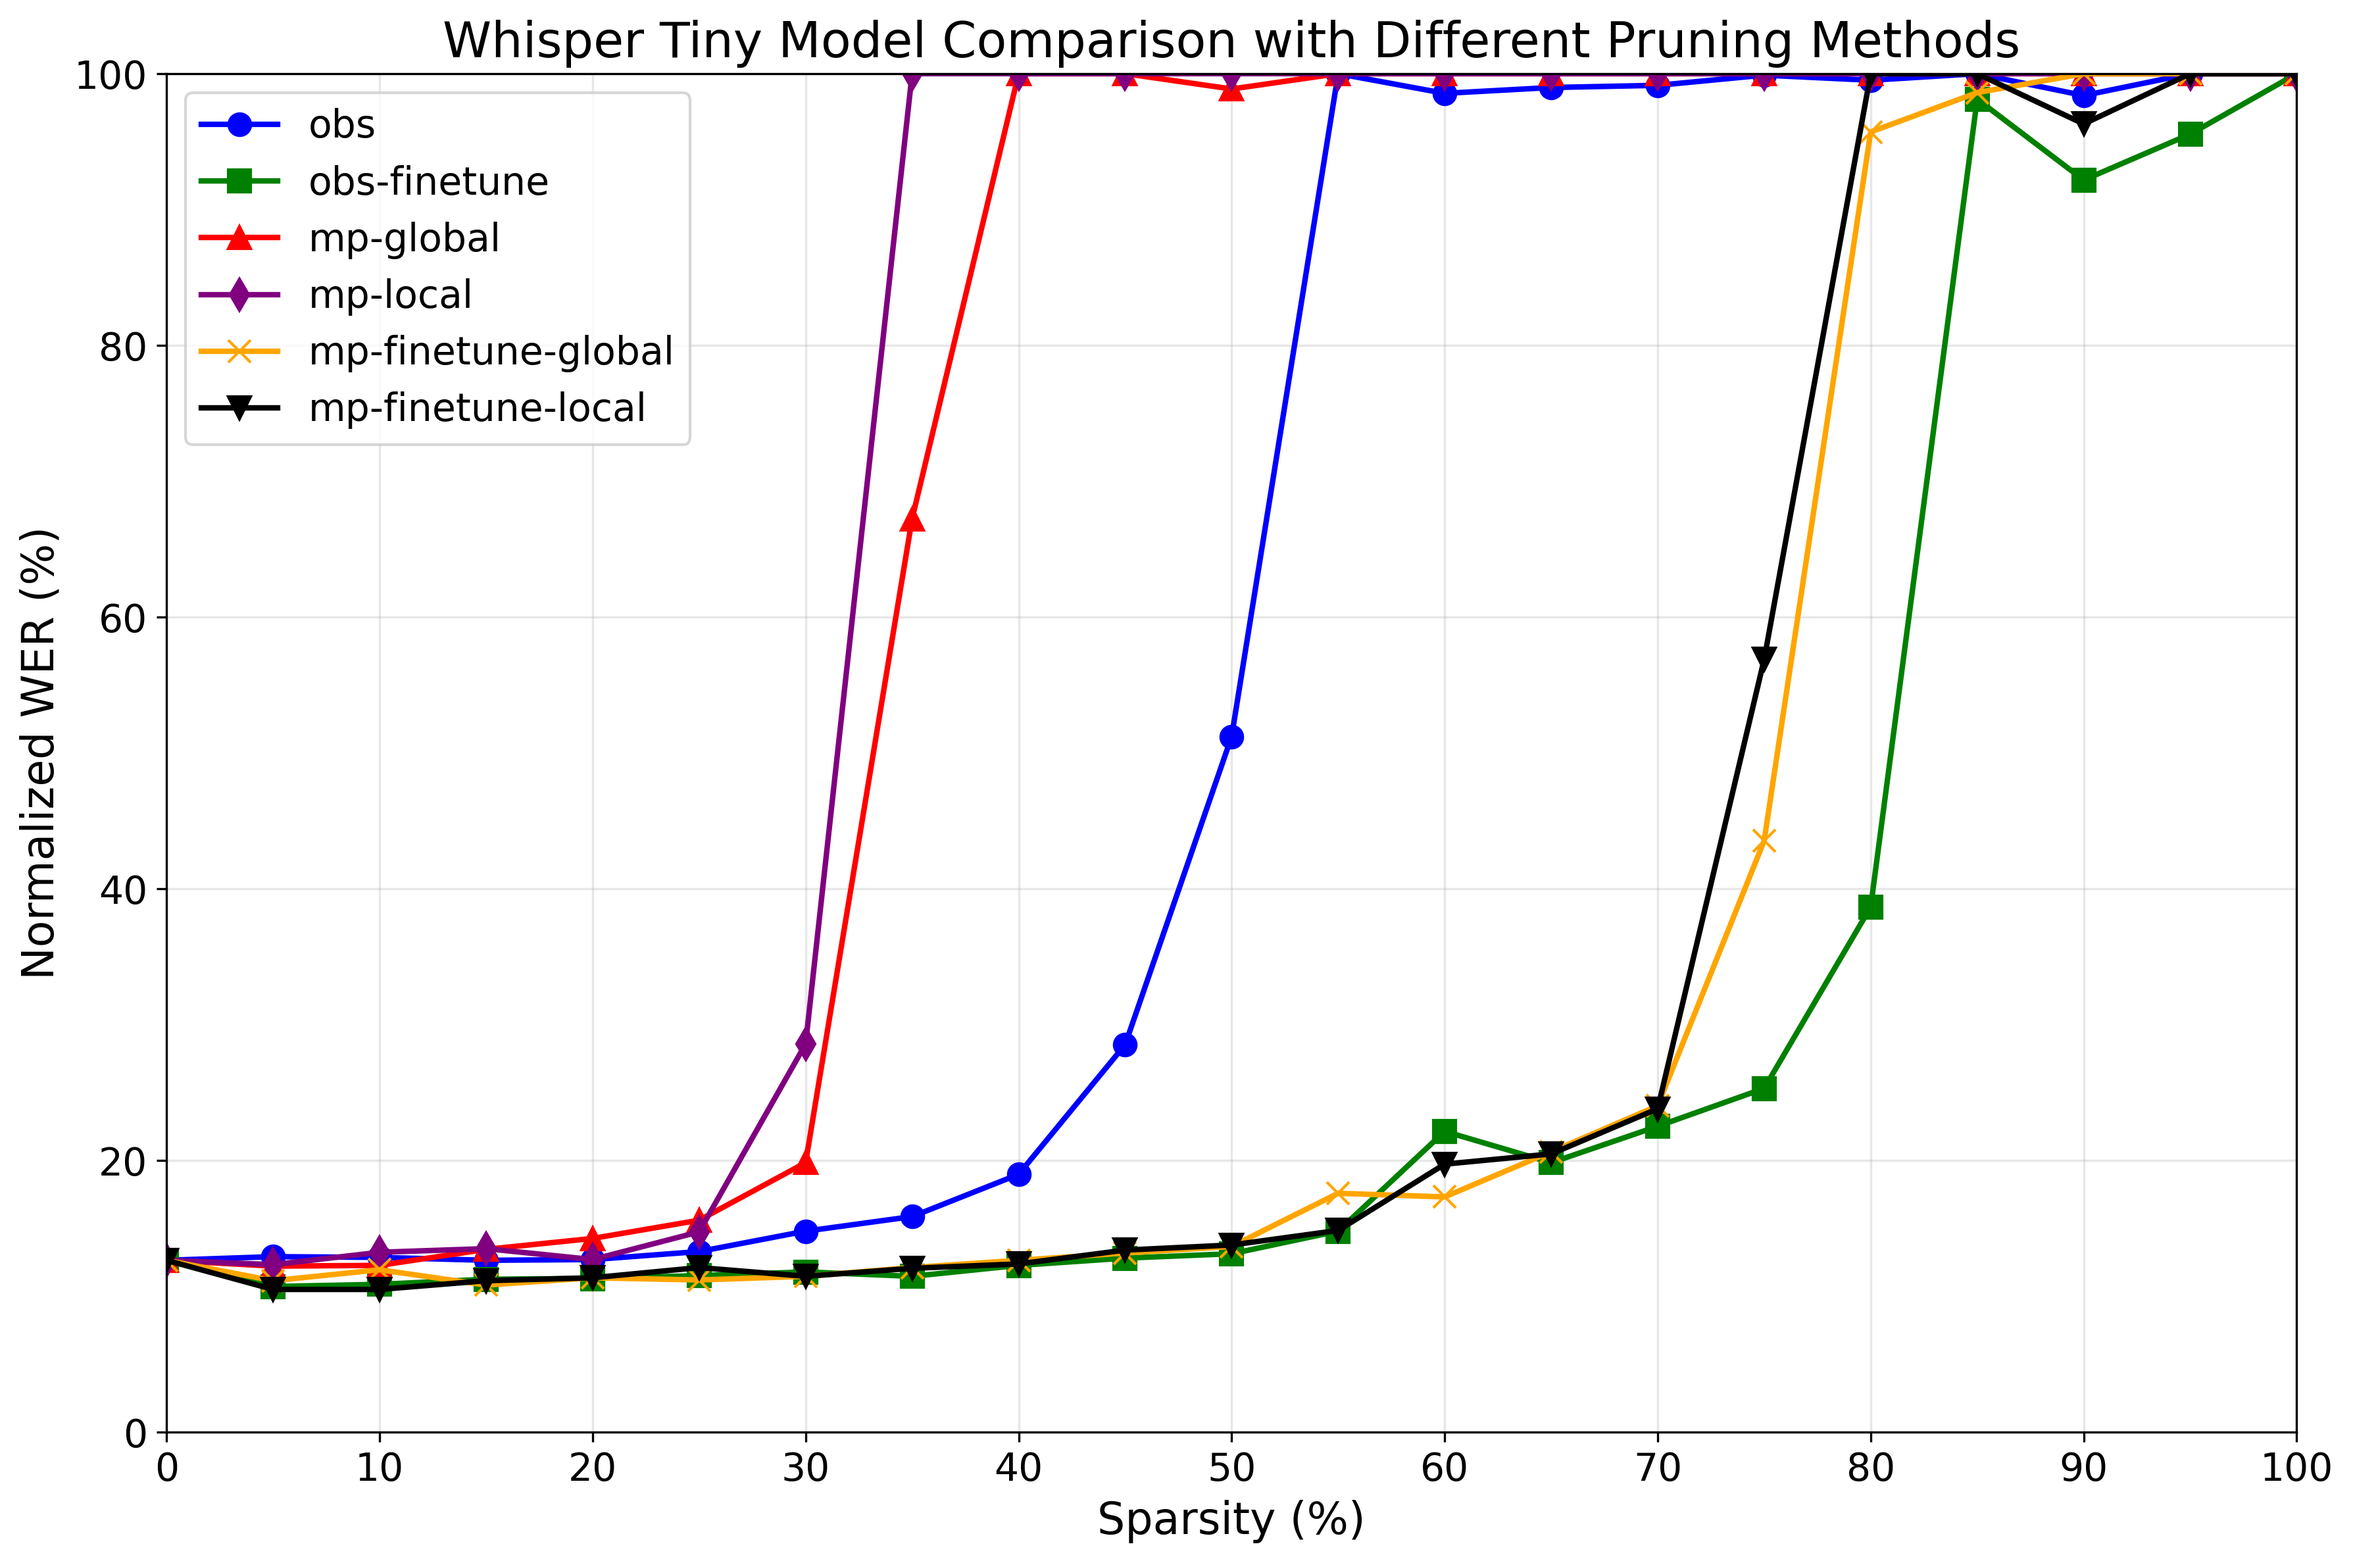
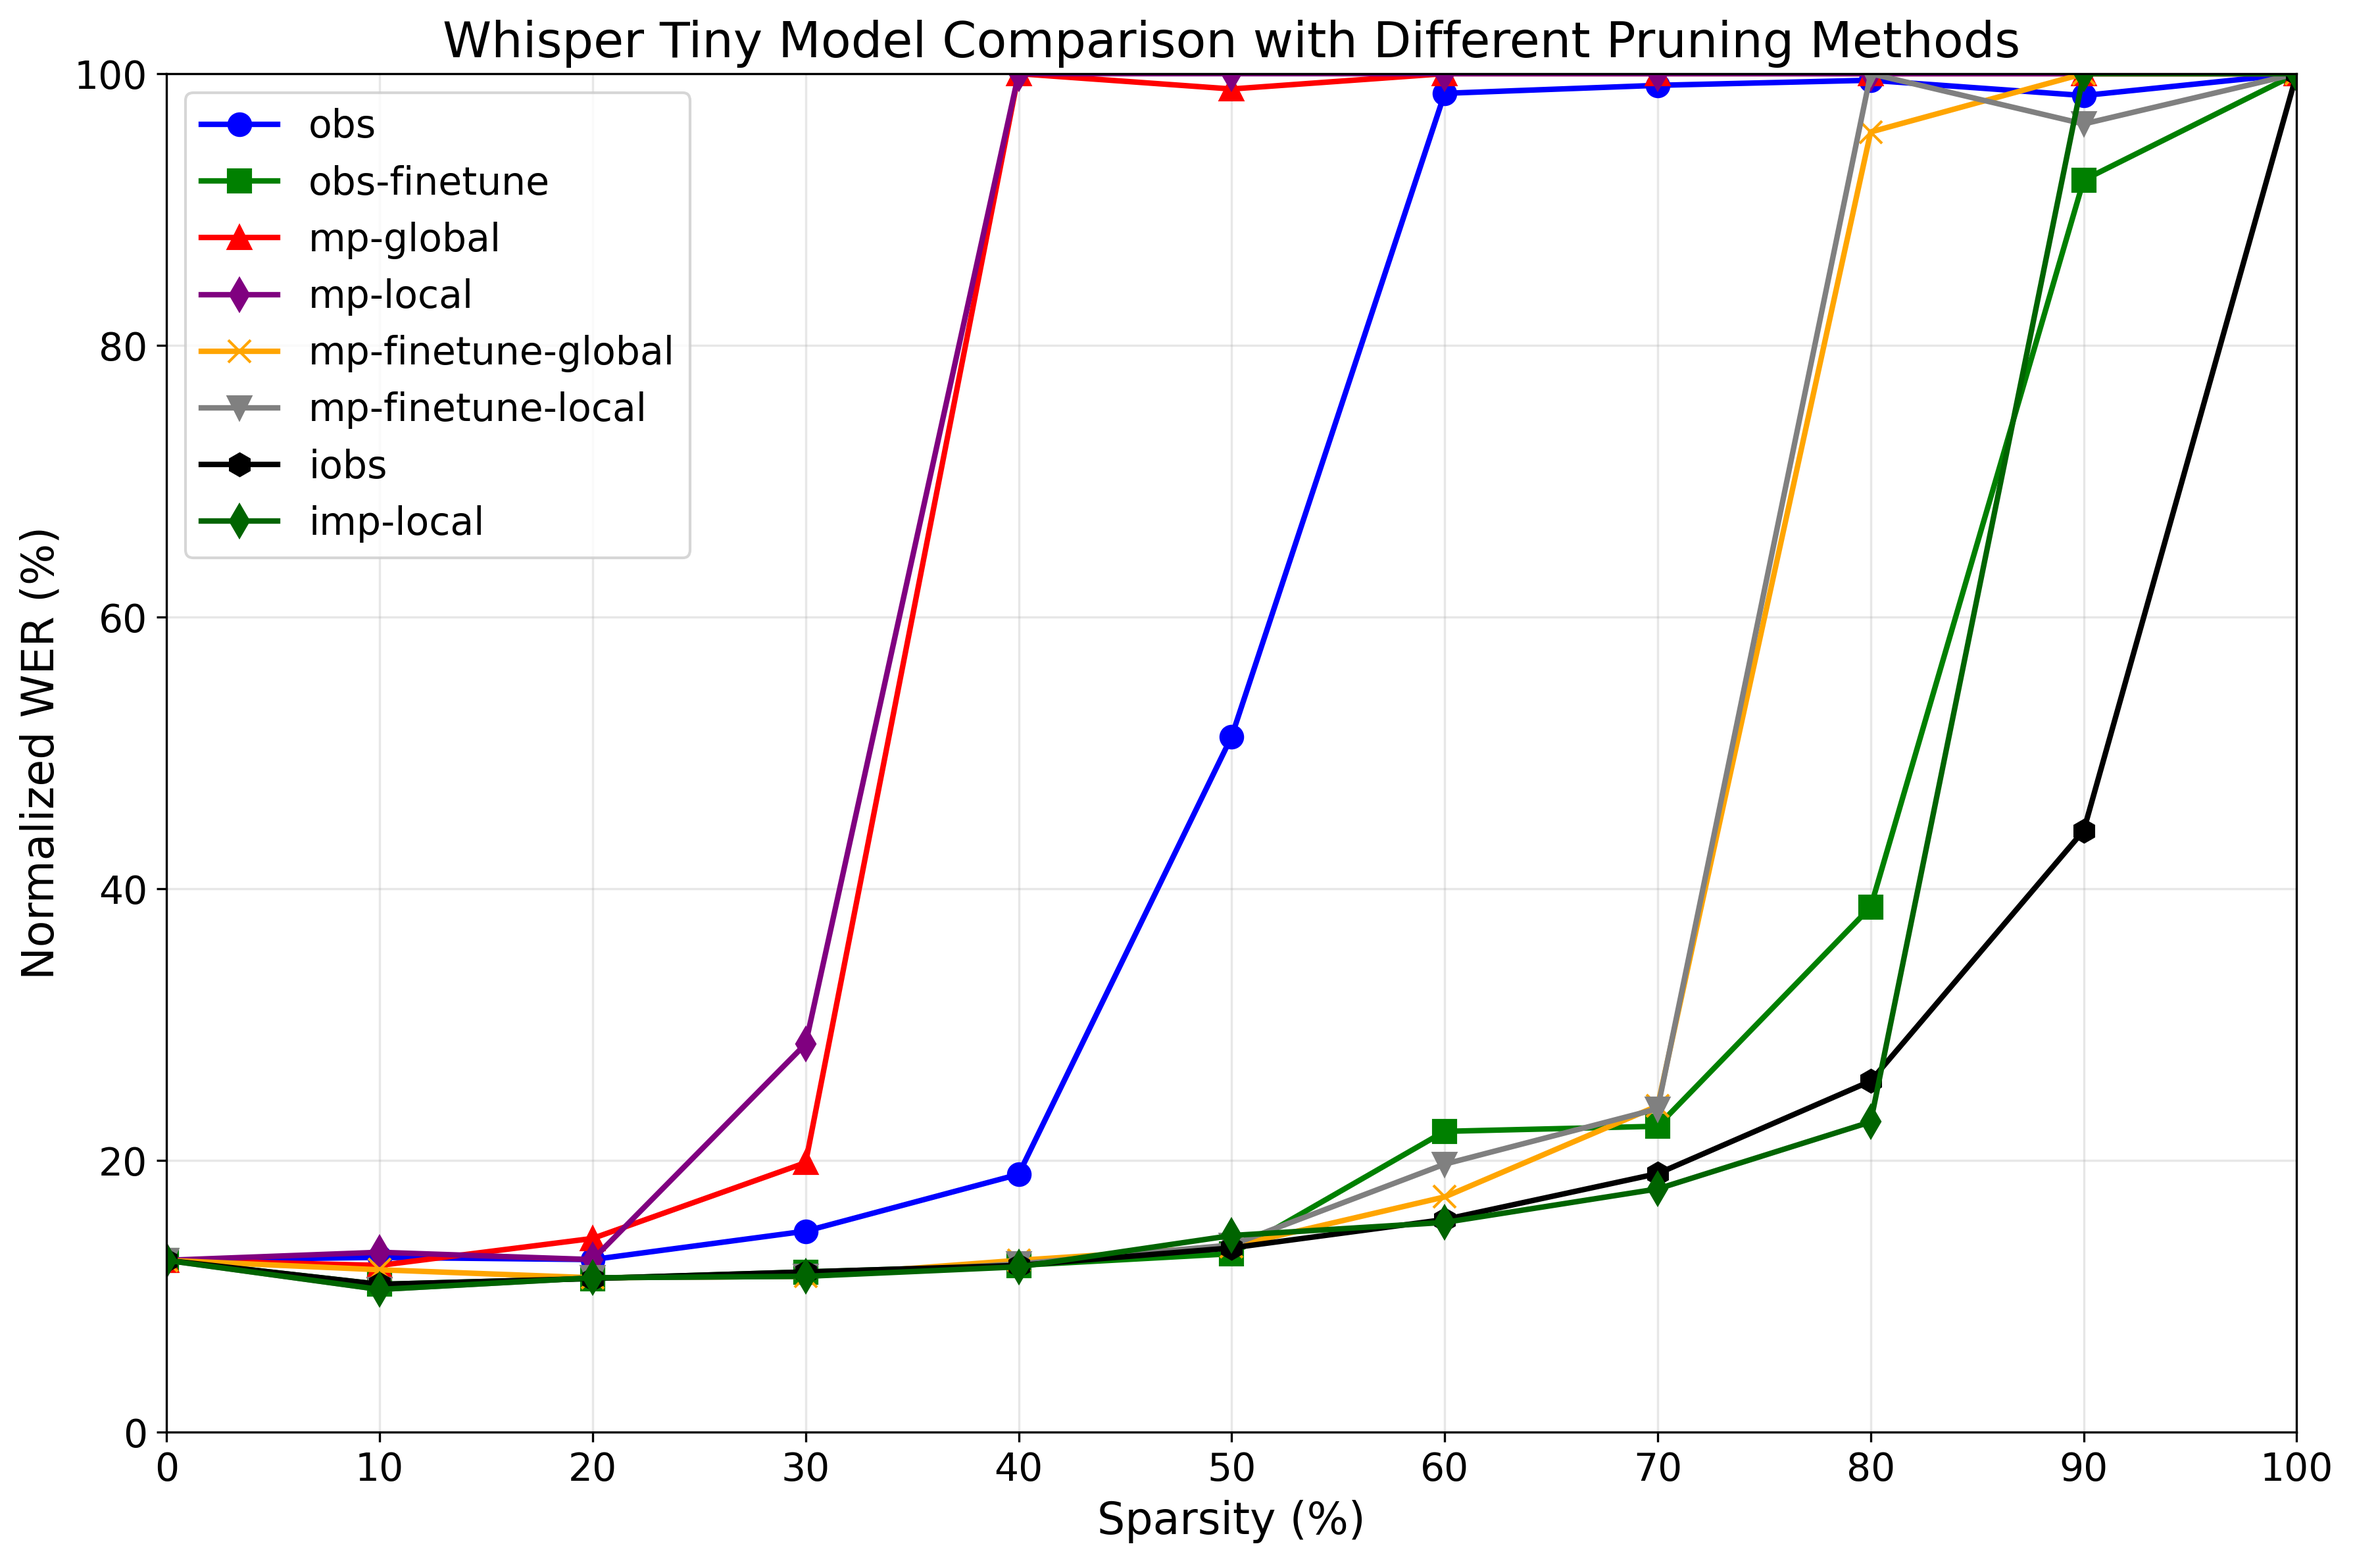
results for imp in!

diff --git a/plot.py b/plot.py
@@ -16,10 +16,10 @@ model_files = {
     'model_compare_result/tiny_mp_global.json': {'name': 'mp-global', 'color': 'red', 'marker': '^'},
     'model_compare_result/tiny_mp_local.json': {'name': 'mp-local', 'color': 'purple', 'marker': 'd'},
     'model_compare_result/tiny_mp_finetune_global.json': {'name': 'mp-finetune-global', 'color': 'orange', 'marker': 'x'},
-    'model_compare_result/tiny_mp_finetune_local.json': {'name': 'mp-finetune-local', 'color': 'black', 'marker': 'v'},
-  #  'model_compare_result/tiny_iobs.json': {'name': 'iobs', 'color': 'brown', 'marker': 'h'},
-  #  'model_compare_result/tiny_imp_global.json': {'name': 'imp-global', 'color': 'pink', 'marker': 's'},
-   # 'model_compare_result/tiny_imp_local.json': {'name': 'imp-local', 'color': 'gray', 'marker': 'd'},
+    'model_compare_result/tiny_mp_finetune_local.json': {'name': 'mp-finetune-local', 'color': 'gray', 'marker': 'v'},
+    'model_compare_result/tiny_iobs.json': {'name': 'iobs', 'color': 'black', 'marker': 'h'},
+    # 'model_compare_result/tiny_imp_global.json': {'name': 'imp-global', 'color': 'pink', 'marker': 's'},
+    'model_compare_result/tiny_imp_local.json': {'name': 'imp-local', 'color': 'darkgreen', 'marker': 'd'},
 }
 
 # Create plot
@@ -43,10 +43,12 @@ for file_path, model_info in model_files.items():
         
         for sparsity_str, metrics in results.items():
             sparsity = float(sparsity_str) * 100  # Convert to percentage
-            norm_wer = min(metrics['normalized_wer'], 100)  # Cap at 100
-            
-            sparsities.append(sparsity)
-            normalized_wers.append(norm_wer)
+            # Only include sparsity values that are multiples of 10%
+            if sparsity % 10 == 0:
+                norm_wer = min(metrics['normalized_wer'], 100)  # Cap at 100
+                
+                sparsities.append(sparsity)
+                normalized_wers.append(norm_wer)
         
         # Sort by sparsity to ensure the line is drawn correctly
         sorted_data = sorted(zip(sparsities, normalized_wers))

diff --git a/eval.py b/eval.py
@@ -247,7 +247,7 @@ def main():
                     model=model,
                     processor=processor,
                     audio_path=args.audio,
-                    sparsities=frange(0.3, sparsity, 0.1),
+                    sparsities=frange(0.3, sparsity, 0.05),
                     prune_method="local",
                     device=args.device,
                     debug=args.debug,
@@ -257,7 +257,7 @@ def main():
                     model=model,
                     processor=processor,
                     audio_path=args.audio,
-                    sparsities=frange(0.3, sparsity, 0.1),
+                    sparsities=frange(0.3, sparsity, 0.05),
                     prune_method="global",
                     device=args.device,
                     debug=args.debug
